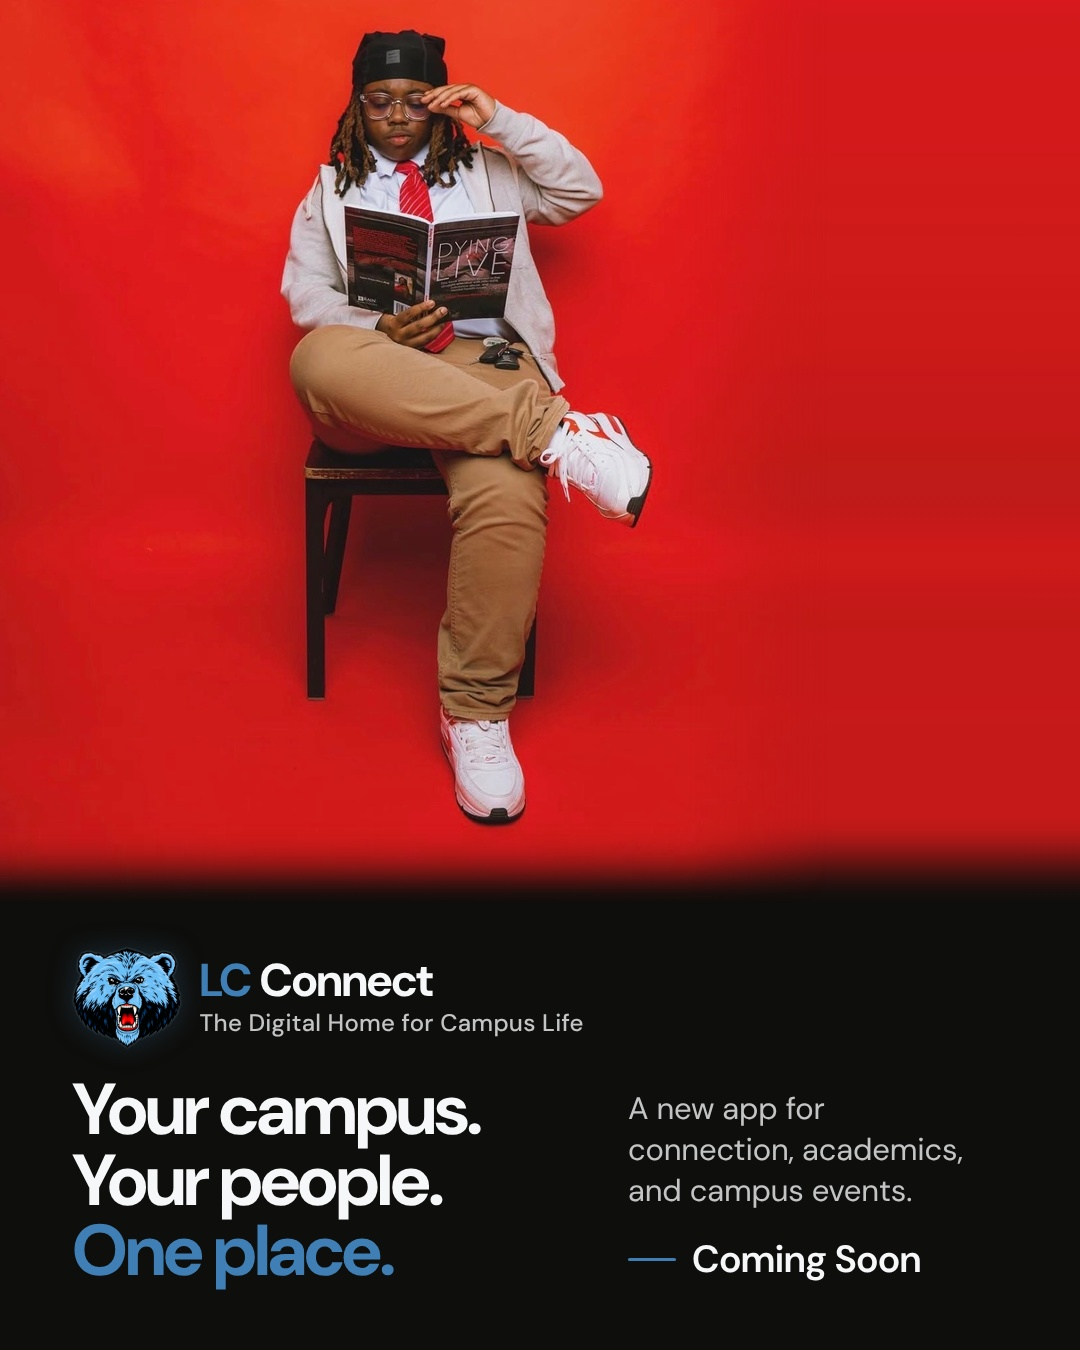
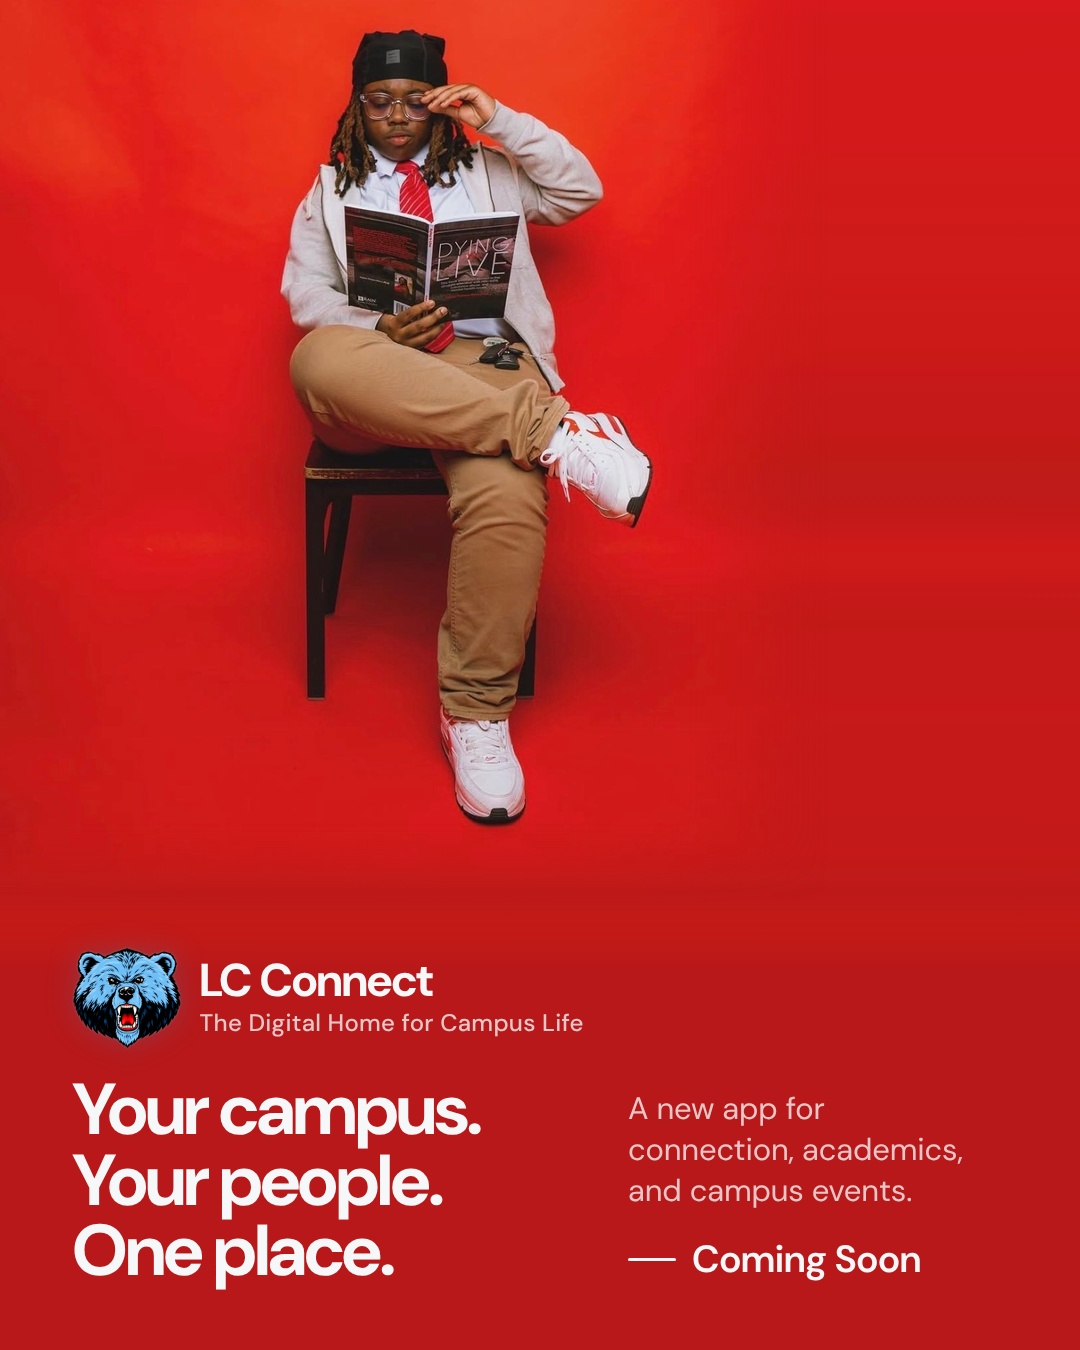
student-05: keep the red backdrop full-bleed, white accent
Per review, the red poster drops the fade to black. The brand blue is
unreadable on the red (~1.1:1), so layout.accent sets the accent to white
for this poster; fadeOut.color null dissolves the photo edge into the
sampled red instead of black. Other posters render pixel-identical.

Claude-Session: https://claude.ai/code/session_01Q1CBtzs9MBD2ynYwK4E3t9

diff --git a/campaign/styles/phase1-poster.css b/campaign/styles/phase1-poster.css
@@ -87,6 +87,9 @@ html, body { background: #000; }
 .zone { position: absolute; left: 0; }
 .type[data-align="right"] .zone { left: auto; right: 0; text-align: right; }
 
+/* `--accent` (layout.accent) defaults to the brand blue. Override it only for a photo whose own
+   colour leaves the blue unreadable (e.g. saturated red paper), so the accent never disappears. */
+
 /* Layer 3 + 4 + 5: brand lockup */
 .brand { top: var(--brand-top, 0px); display: flex; align-items: center; gap: 18px; }
 .type[data-align="right"] .brand { flex-direction: row-reverse; }
@@ -108,7 +111,7 @@ html, body { background: #000; }
   letter-spacing: -0.02em;
   line-height: 1;
 }
-.wordmark .wm-lc { color: var(--lc-blue); }
+.wordmark .wm-lc { color: var(--accent, var(--lc-blue)); }
 
 .descriptor {
   font-size: var(--type-descriptor);
@@ -132,7 +135,7 @@ html, body { background: #000; }
 /* Wide group shots leave space only above/below the subjects: anchor the headline to the bottom
    of the frame instead, sharing the band with the footer. */
 .headline[data-anchor="bottom"] { top: auto; bottom: var(--headline-bottom, 0px); }
-.headline .line.accent { color: var(--lc-blue); }
+.headline .line.accent { color: var(--accent, var(--lc-blue)); }
 
 /* Footer: layers 7 + 8 */
 .footer {
@@ -174,5 +177,5 @@ html, body { background: #000; }
   width: 48px;
   height: 3px;
   border-radius: 2px;
-  background: var(--lc-blue);
+  background: var(--accent, var(--lc-blue));
 }

diff --git a/campaign/templates/poster.js b/campaign/templates/poster.js
@@ -97,7 +97,9 @@ async function renderPhoto(poster, photo) {
 
   const feather = photo.feather ?? {};
   setVars(poster, {
-    "--backdrop": photo.fadeOut ? `${fadeOverlay(photo.fadeOut)}, ${backdrop}` : backdrop,
+    // fadeOut.color: null dissolves into the backdrop itself instead of fading it to black.
+    "--backdrop": photo.fadeOut && photo.fadeOut.color !== null
+      ? `${fadeOverlay(photo.fadeOut)}, ${backdrop}` : backdrop,
     "--photo-x": px(Math.round(photo.x)),
     "--photo-y": px(Math.round(photo.y)),
     "--photo-w": px(width),
@@ -164,6 +166,7 @@ function renderLayout(poster, layout = {}) {
     "--type-headline": px(layout.headlineSize),
     "--bear-h": px(layout.bearHeight),
     "--brand-top": px(layout.brandTop),
+    "--accent": layout.accent,
     "--tone": layout.tone,
   });
 }

diff --git a/campaign/README.md b/campaign/README.md
@@ -51,7 +51,8 @@ To preview while tweaking, serve the folder (`npx http-server .`) and open
 | `photo.backdrop` | Canvas fill where the photo doesn't reach. Either a colour sampled from the photo's background (`"#0e0e0c"`), or `{ "side": "left", "inset": 40, "width": 40 }` to build a vertical gradient from a strip of the photo's own edge — use this when the studio backdrop isn't flat (e.g. dark wall → lit floor). Set `inset` past any stand or edge artefact. |
 | `photo.feather` | `{left,right,top,bottom}` px of soft edge for any photo edge that lands inside the canvas. |
 | `photo.backdrop.bands` | Sampling resolution for the gradient backdrop (default 40); raise it (e.g. 200) when the floor lighting changes quickly. |
-| `photo.fadeOut` | `{ from, to, color? }` canvas rows over which the photo dissolves (smoothstep) into black (`color`, default campaign black `#0e0e0c`); a coloured backdrop extension fades with it. For bright or saturated photos with no dark negative space: the type then sits on black below the subject. |
+| `photo.fadeOut` | `{ from, to, color? }` canvas rows over which the photo dissolves (smoothstep) into black (`color`, default campaign black `#0e0e0c`); a coloured backdrop extension fades with it. `color: null` dissolves into the backdrop itself instead (e.g. to hide an edge mark while keeping a coloured ground). For bright or saturated photos with no dark negative space: the type then sits on black below the subject. |
+| `layout.accent` | Override the accent colour (default brand blue) — only for a photo whose own colour makes the blue unreadable, e.g. `"var(--lc-ink-white)"` on saturated red. |
 | `layout.brandTop` | Move the brand lockup down from the top margin (px), e.g. into a faded-out band with the rest of the type. |
 | `photo.blend` | `{ side, width, top, fade }` — lays the backdrop over just the lower part of one photo edge (below canvas y `top`, fading `width` px into the photo). For textured floors where a narrow feather shows a seam but a wide one would fade the subject. |
 | `layout.align` | `left` or `right` — which side the type column sits on. Pick the side with negative space. |
@@ -111,11 +112,12 @@ Copy, colours, type and the logo treatment are deliberately **not** per-student:
 - **group-03** (four students on a balcony, bright white building): same treatment as student-04 —
   full width at 0.81 (the right-hand student's foot and hand touch the frame edge), dissolving into
   black on the white ledge just below the shoes.
-- **student-05** (seated reader on saturated red paper): white type would pass on the red, but the
-  brand blue measures ~1.1:1 against it, so "LC", "One place." and the Coming Soon rule would vanish.
-  Same dissolve as student-04, now into black from a red extension: the photo sits flush left at
-  0.72 with the right side continued in the photo's own sampled red, and both fade to black under
-  the shoes so the type keeps its standard colours.
+- **student-05** (seated reader on saturated red paper): the red is kept full-bleed — white type
+  reads on it (headline 6.2:1, 78%-white supporting copy 4.2:1, both large text), but the brand
+  blue measures ~1.1:1 against it, so this poster sets `layout.accent` to white for "LC",
+  "One place." and the Coming Soon rule; the blue stays in the bear. The photo sits flush left at
+  0.72, the right side and the bottom continue the photo's own sampled red, and the photo's lower
+  edge dissolves into that red just above the photographer's mark.
 - **Coming Soon** is a rule-and-label signature in the type system rather than a badge, so it reads
   as part of the campaign rather than a sticker.
 - **Mobile.** Smallest text is 24px at 1080 wide (~9px on a phone feed); body copy is 31px and the
